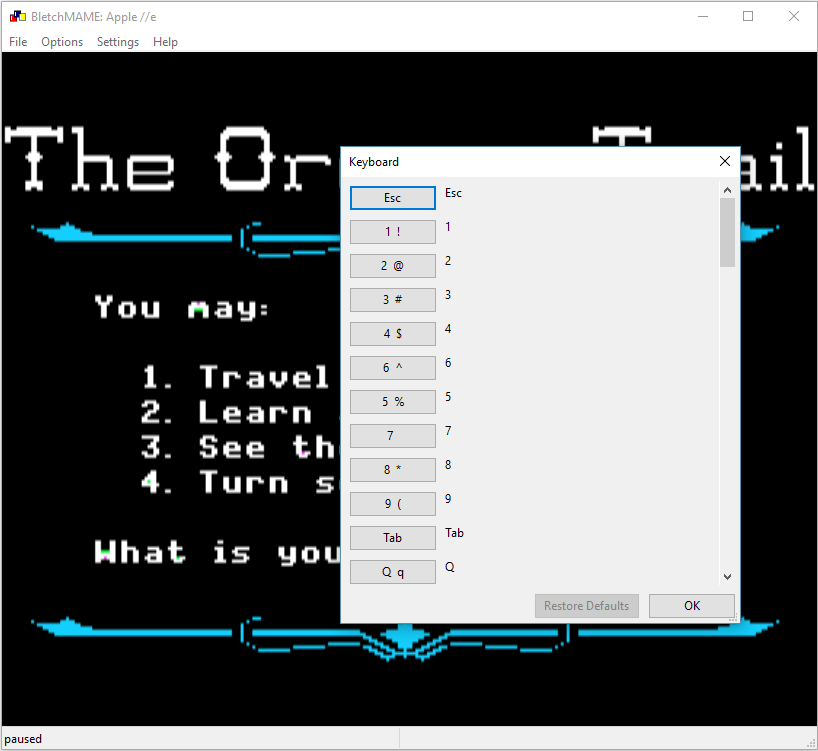
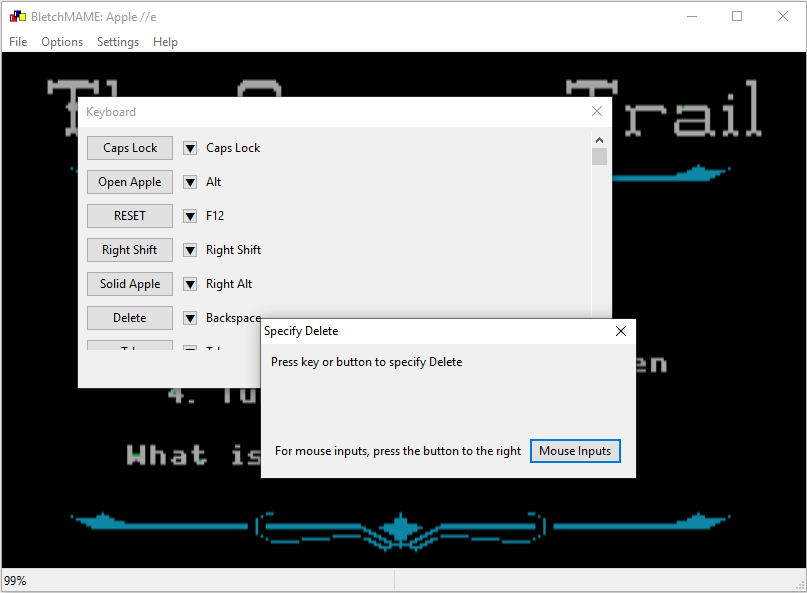
New screenshots, some new info

diff --git a/index.html b/index.html
@@ -16,8 +16,9 @@
     <h1>BletchMAME</h1>
     <p>
         BletchMAME is a new experimental front end for <a href="https://www.mamedev.org/">MAME</a>.  Unlike existing front ends (which function as launchers, keeping
-        MAME's internal UI), BletchMAME replaces the internal MAME UI with a more conventional point and click GUI.  While BletchMAME is intended to support all
-        machines supported by MAME, it should be particularly suitable to computer emulation.
+        MAME's internal UI), BletchMAME replaces the internal MAME UI with a more conventional point and click GUI to provide a friendlier experience in a number of
+        areas (such as profiles, input configuration and a number of others).  While BletchMAME is intended to support all machines supported by MAME, it should be
+        particularly suitable to computer emulation.
     </p>
     <p>
         BletchMAME is currently <b>very bleeding edge</b>.  Expect breaking changes, bugs, all of the usual stuff when working with a new project.  <i>If the lack of
@@ -31,20 +32,23 @@
             <td><a href="images/screenshot2.png"><img src="images/screenshot2.png" class="mycell" /></a></td>
             <td><a href="images/screenshot3.png"><img src="images/screenshot3.png" class="mycell" /></a></td>
             <td><a href="images/screenshot4.png"><img src="images/screenshot4.png" class="mycell" /></a></td>
+            <td><a href="images/screenshot5.png"><img src="images/screenshot5.png" class="mycell" /></a></td>
         </tr>
     </table>
     <table>
         <tr>
-            <td><a href="images/screenshot5.png"><img src="images/screenshot5.png" class="mycell" /></a></td>
             <td><a href="images/screenshot6.png"><img src="images/screenshot6.png" class="mycell" /></a></td>
             <td><a href="images/screenshot7.png"><img src="images/screenshot7.png" class="mycell" /></a></td>
             <td><a href="images/screenshot8.png"><img src="images/screenshot8.png" class="mycell" /></a></td>
-        </tr>
-        <tr>
             <td><a href="images/screenshot9.png"><img src="images/screenshot9.png" class="mycell" /></a></td>
             <td><a href="images/screenshot10.png"><img src="images/screenshot10.png" class="mycell" /></a></td>
+        </tr>
+        <tr>
             <td><a href="images/screenshot11.png"><img src="images/screenshot11.png" class="mycell" /></a></td>
             <td><a href="images/screenshot12.png"><img src="images/screenshot12.png" class="mycell" /></a></td>
+            <td><a href="images/screenshot13.png"><img src="images/screenshot13.png" class="mycell" /></a></td>
+            <td><a href="images/screenshot14.png"><img src="images/screenshot14.png" class="mycell" /></a></td>
+            <td><a href="images/screenshot15.png"><img src="images/screenshot15.png" class="mycell" /></a></td>
         </tr>
     </table>
     
